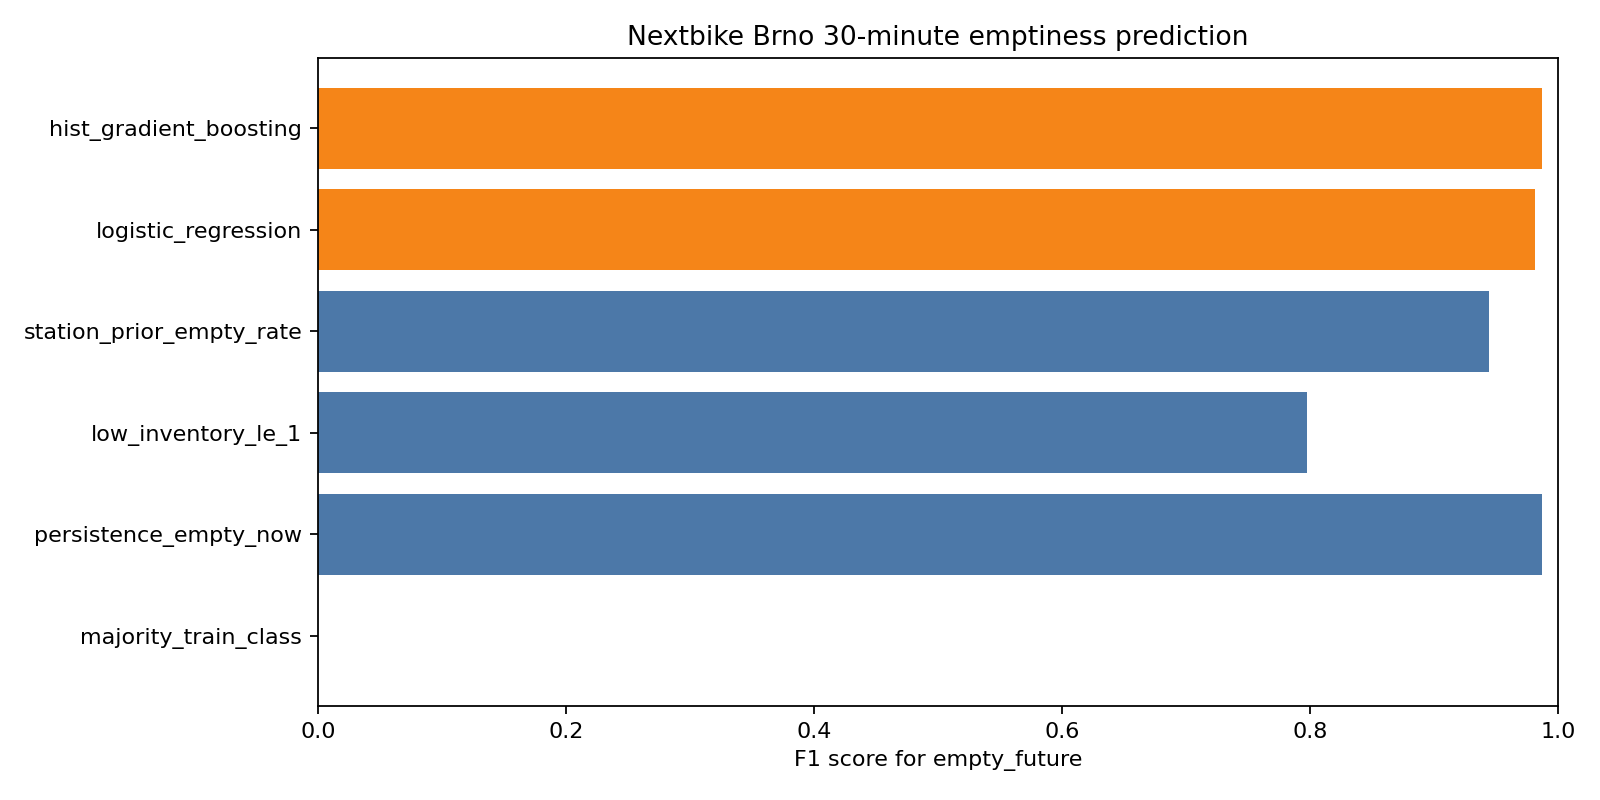
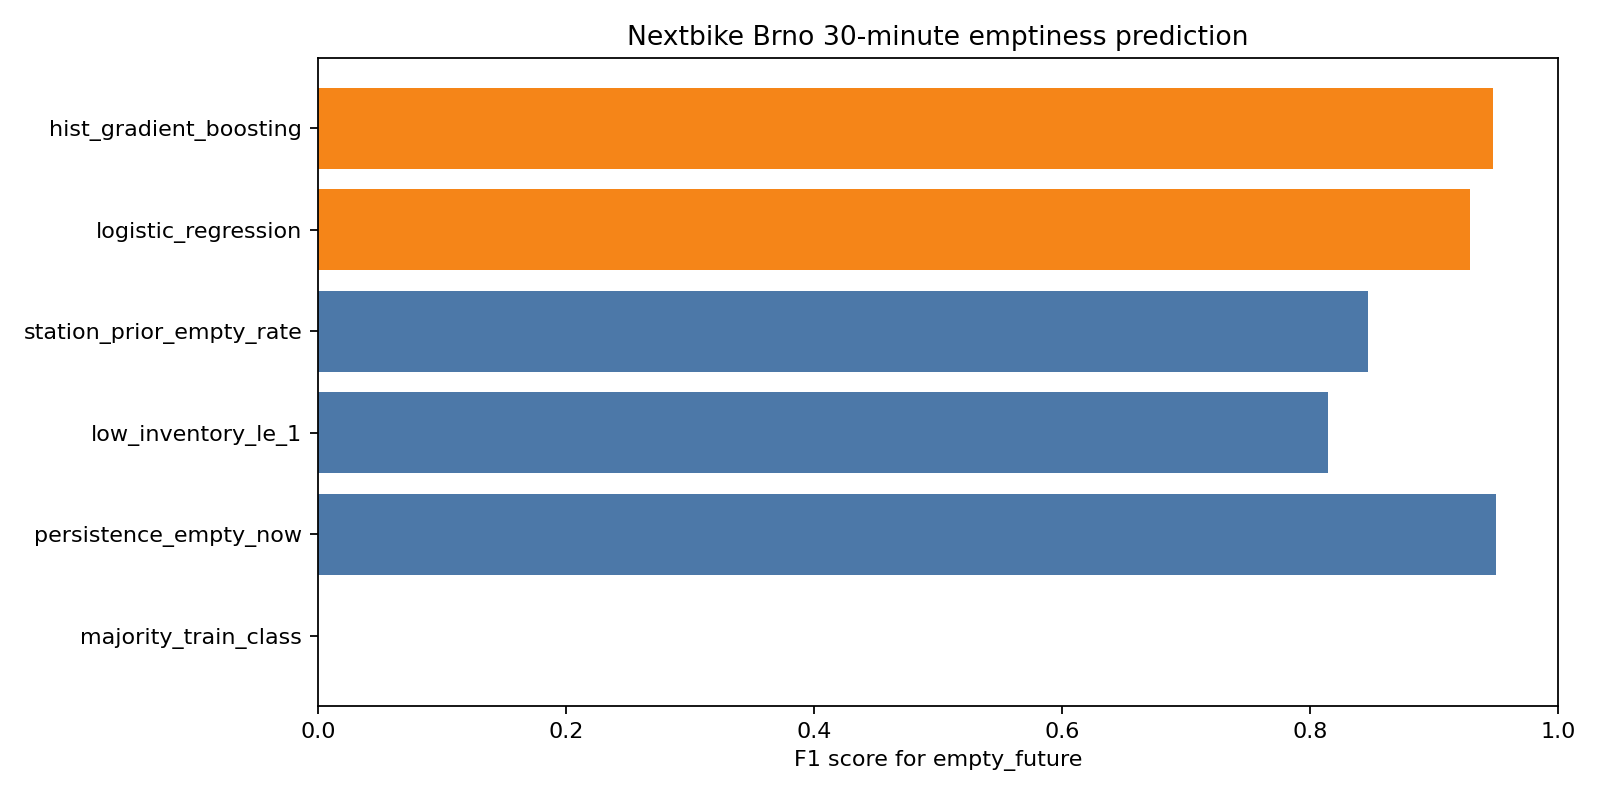
docs: refresh morning model report

Changed region(s): [[0.8438, 0.0938, 0.9688, 0.4688], [0.9375, 0.5938, 0.9688, 0.7188], [0.8125, 0.4688, 0.8438, 0.5938]]

diff --git a/scripts/generate_analysis_artifacts.py b/scripts/generate_analysis_artifacts.py
@@ -154,6 +154,21 @@ def build_markdown_report(
 ) -> str:
     best_baseline = max(baseline.metrics, key=lambda row: row.f1)
     best_model = max(model_result.metrics, key=lambda row: row.f1)
+    model_delta = best_model.f1 - best_baseline.f1
+    if model_delta > 0.002:
+        interpretation = (
+            "The best trained model is slightly ahead of persistence on this split, "
+            "but the margin is still small."
+        )
+    elif model_delta < -0.002:
+        interpretation = (
+            "The best trained model does not beat persistence on this split. "
+            "That makes persistence the operational baseline to beat."
+        )
+    else:
+        interpretation = (
+            "The best trained model and persistence are effectively tied on this split."
+        )
     return f"""# Nextbike Brno Availability Modeling Report
 
 Generated at: `{generated_at.isoformat()}`
@@ -162,13 +177,13 @@ Generated at: `{generated_at.isoformat()}`
 
 We now have an end-to-end local pipeline: poll GBFS, normalize to DuckDB, build a station-level ML dataset, evaluate simple baselines, and train first sklearn tabular models.
 
-The current data is still mostly evening/night behavior, so the strongest baseline is simple persistence: assume a station's 30-minute future emptiness equals its current emptiness. That baseline is very hard to beat because stations barely change during this window.
+The current data now includes evening, overnight, and early morning behavior. The strongest baseline is still simple persistence: assume a station's 30-minute future emptiness equals its current emptiness. That baseline is hard to beat because many stations remain stable over a 30-minute horizon.
 
 Best baseline by F1: `{best_baseline.name}` with F1 `{best_baseline.f1:.4f}`.
 
 Best trained model by F1: `{best_model.name}` with F1 `{best_model.f1:.4f}`.
 
-Interpretation: the best model is slightly ahead of persistence on this split, but the margin is small. We need morning commute, daytime, and weekend data before judging model class quality.
+Interpretation: {interpretation} We still need daytime, afternoon, and weekend data before judging model class quality.
 
 ## Data Snapshot
 
@@ -219,10 +234,10 @@ Models trained:
 
 ## Findings
 
-- The problem is currently dominated by inertia. `empty_now` almost fully predicts `empty_future` in the overnight sample.
+- The problem is currently dominated by inertia. `empty_now` is still a very strong predictor of `empty_future`.
 - `station_prior_empty_rate` is strong, which means station identity matters.
 - `low_inventory_le_1` has perfect or near-perfect recall but many false positives; useful if the product goal is "never walk to a station likely to be empty".
-- The trained models are useful as scoring/ranking models because ROC AUC and average precision are high; current F1 is only slightly better than persistence and should not be overinterpreted.
+- The trained models are useful as scoring/ranking models because ROC AUC and average precision are high; current F1 versus persistence should not be overinterpreted until we have broader daytime coverage.
 
 ## Next Work
 

diff --git a/reports/availability_model_report.md b/reports/availability_model_report.md
@@ -1,31 +1,31 @@
 # Nextbike Brno Availability Modeling Report
 
-Generated at: `2026-05-25T02:09:59+02:00`
+Generated at: `2026-05-25T09:43:47+02:00`
 
 ## Executive Summary
 
 We now have an end-to-end local pipeline: poll GBFS, normalize to DuckDB, build a station-level ML dataset, evaluate simple baselines, and train first sklearn tabular models.
 
-The current data is still mostly evening/night behavior, so the strongest baseline is simple persistence: assume a station's 30-minute future emptiness equals its current emptiness. That baseline is very hard to beat because stations barely change during this window.
+The current data now includes evening, overnight, and early morning behavior. The strongest baseline is still simple persistence: assume a station's 30-minute future emptiness equals its current emptiness. That baseline is hard to beat because many stations remain stable over a 30-minute horizon.
 
-Best baseline by F1: `persistence_empty_now` with F1 `0.9867`.
+Best baseline by F1: `persistence_empty_now` with F1 `0.9497`.
 
-Best trained model by F1: `hist_gradient_boosting` with F1 `0.9871`.
+Best trained model by F1: `hist_gradient_boosting` with F1 `0.9477`.
 
-Interpretation: the best model is slightly ahead of persistence on this split, but the margin is small. We need morning commute, daytime, and weekend data before judging model class quality.
+Interpretation: The best trained model does not beat persistence on this split. That makes persistence the operational baseline to beat. We still need daytime, afternoon, and weekend data before judging model class quality.
 
 ## Data Snapshot
 
 | Metric | Value |
 |---|---|
-| `collection_runs` | `353` |
+| `collection_runs` | `793` |
 | `first_collected_at` | `2026-05-24 18:32:12+02:00` |
-| `latest_collected_at` | `2026-05-25 02:09:06+02:00` |
-| `station_rows` | `104841` |
-| `free_bike_rows` | `184180` |
+| `latest_collected_at` | `2026-05-25 09:43:30+02:00` |
+| `station_rows` | `235521` |
+| `free_bike_rows` | `434129` |
 | `distinct_stations` | `297` |
-| `bikes_available_min_avg_max` | `553/566.28/572` |
-| `db_size_mb` | `13.51` |
+| `bikes_available_min_avg_max` | `542/564.49/573` |
+| `db_size_mb` | `24.76` |
 
 ## Dataset
 
@@ -39,13 +39,13 @@ Build settings:
 
 | Metric | Value |
 |---|---|
-| `rows` | `94446` |
+| `rows` | `224829` |
 | `stations` | `297` |
 | `first_collected_at` | `2026-05-24 20:17:28+02:00` |
-| `latest_collected_at` | `2026-05-25 01:38:47+02:00` |
-| `empty_future_rate` | `0.3955` |
-| `avg_abs_change` | `0.0832` |
-| `changed_rate` | `0.0688` |
+| `latest_collected_at` | `2026-05-25 09:12:36+02:00` |
+| `empty_future_rate` | `0.3974` |
+| `avg_abs_change` | `0.088` |
+| `changed_rate` | `0.0699` |
 | `null_lag_5m` | `2970` |
 | `null_lag_15m` | `6831` |
 
@@ -62,17 +62,17 @@ Feature engineering started in `build-dataset`:
 
 Temporal split:
 
-- train rows: `70686`
-- test rows: `23760`
-- train window: `2026-05-24 20:17:28+02:00 -> 2026-05-25 00:15:20+02:00`
-- test window: `2026-05-25 00:16:23+02:00 -> 2026-05-25 01:38:47+02:00`
+- train rows: `168399`
+- test rows: `56430`
+- train window: `2026-05-24 20:17:28+02:00 -> 2026-05-25 05:56:39+02:00`
+- test window: `2026-05-25 05:57:41+02:00 -> 2026-05-25 09:12:36+02:00`
 
 | Model | Accuracy | Precision | Recall | F1 | ROC AUC | Avg precision | Pred empty rate |
 |---|---:|---:|---:|---:|---:|---:|---:|
-| `persistence_empty_now` | 0.9896 | 0.9821 | 0.9913 | 0.9867 | 0.9900 | 0.9769 | 0.3901 |
-| `station_prior_empty_rate` | 0.9559 | 0.9236 | 0.9656 | 0.9442 | 0.9841 | 0.9626 | 0.4040 |
-| `low_inventory_le_1` | 0.8033 | 0.6627 | 1.0000 | 0.7972 | 0.9929 | 0.9793 | 0.5832 |
-| `majority_train_class` | 0.6135 | 0.0000 | 0.0000 | 0.0000 | 0.5000 | 0.3865 | 0.0000 |
+| `persistence_empty_now` | 0.9584 | 0.9603 | 0.9394 | 0.9497 | 0.9558 | 0.9274 | 0.4086 |
+| `station_prior_empty_rate` | 0.8773 | 0.8843 | 0.8125 | 0.8469 | 0.9194 | 0.8906 | 0.3838 |
+| `low_inventory_le_1` | 0.8110 | 0.6912 | 0.9898 | 0.8140 | 0.9715 | 0.9412 | 0.5982 |
+| `majority_train_class` | 0.5823 | 0.0000 | 0.0000 | 0.0000 | 0.5000 | 0.4177 | 0.0000 |
 
 ## First Models
 
@@ -83,17 +83,17 @@ Models trained:
 
 | Model | Accuracy | Precision | Recall | F1 | ROC AUC | Avg precision | Pred empty rate |
 |---|---:|---:|---:|---:|---:|---:|---:|
-| `hist_gradient_boosting` | 0.9900 | 0.9834 | 0.9910 | 0.9871 | 0.9944 | 0.9852 | 0.3895 |
-| `logistic_regression` | 0.9851 | 0.9715 | 0.9904 | 0.9809 | 0.9915 | 0.9745 | 0.3940 |
+| `hist_gradient_boosting` | 0.9566 | 0.9557 | 0.9398 | 0.9477 | 0.9804 | 0.9681 | 0.4108 |
+| `logistic_regression` | 0.9406 | 0.9273 | 0.9308 | 0.9291 | 0.9782 | 0.9644 | 0.4193 |
 
 ![F1 comparison](figures/model_f1_comparison.png)
 
 ## Findings
 
-- The problem is currently dominated by inertia. `empty_now` almost fully predicts `empty_future` in the overnight sample.
+- The problem is currently dominated by inertia. `empty_now` is still a very strong predictor of `empty_future`.
 - `station_prior_empty_rate` is strong, which means station identity matters.
 - `low_inventory_le_1` has perfect or near-perfect recall but many false positives; useful if the product goal is "never walk to a station likely to be empty".
-- The trained models are useful as scoring/ranking models because ROC AUC and average precision are high; current F1 is only slightly better than persistence and should not be overinterpreted.
+- The trained models are useful as scoring/ranking models because ROC AUC and average precision are high; current F1 versus persistence should not be overinterpreted until we have broader daytime coverage.
 
 ## Next Work
 